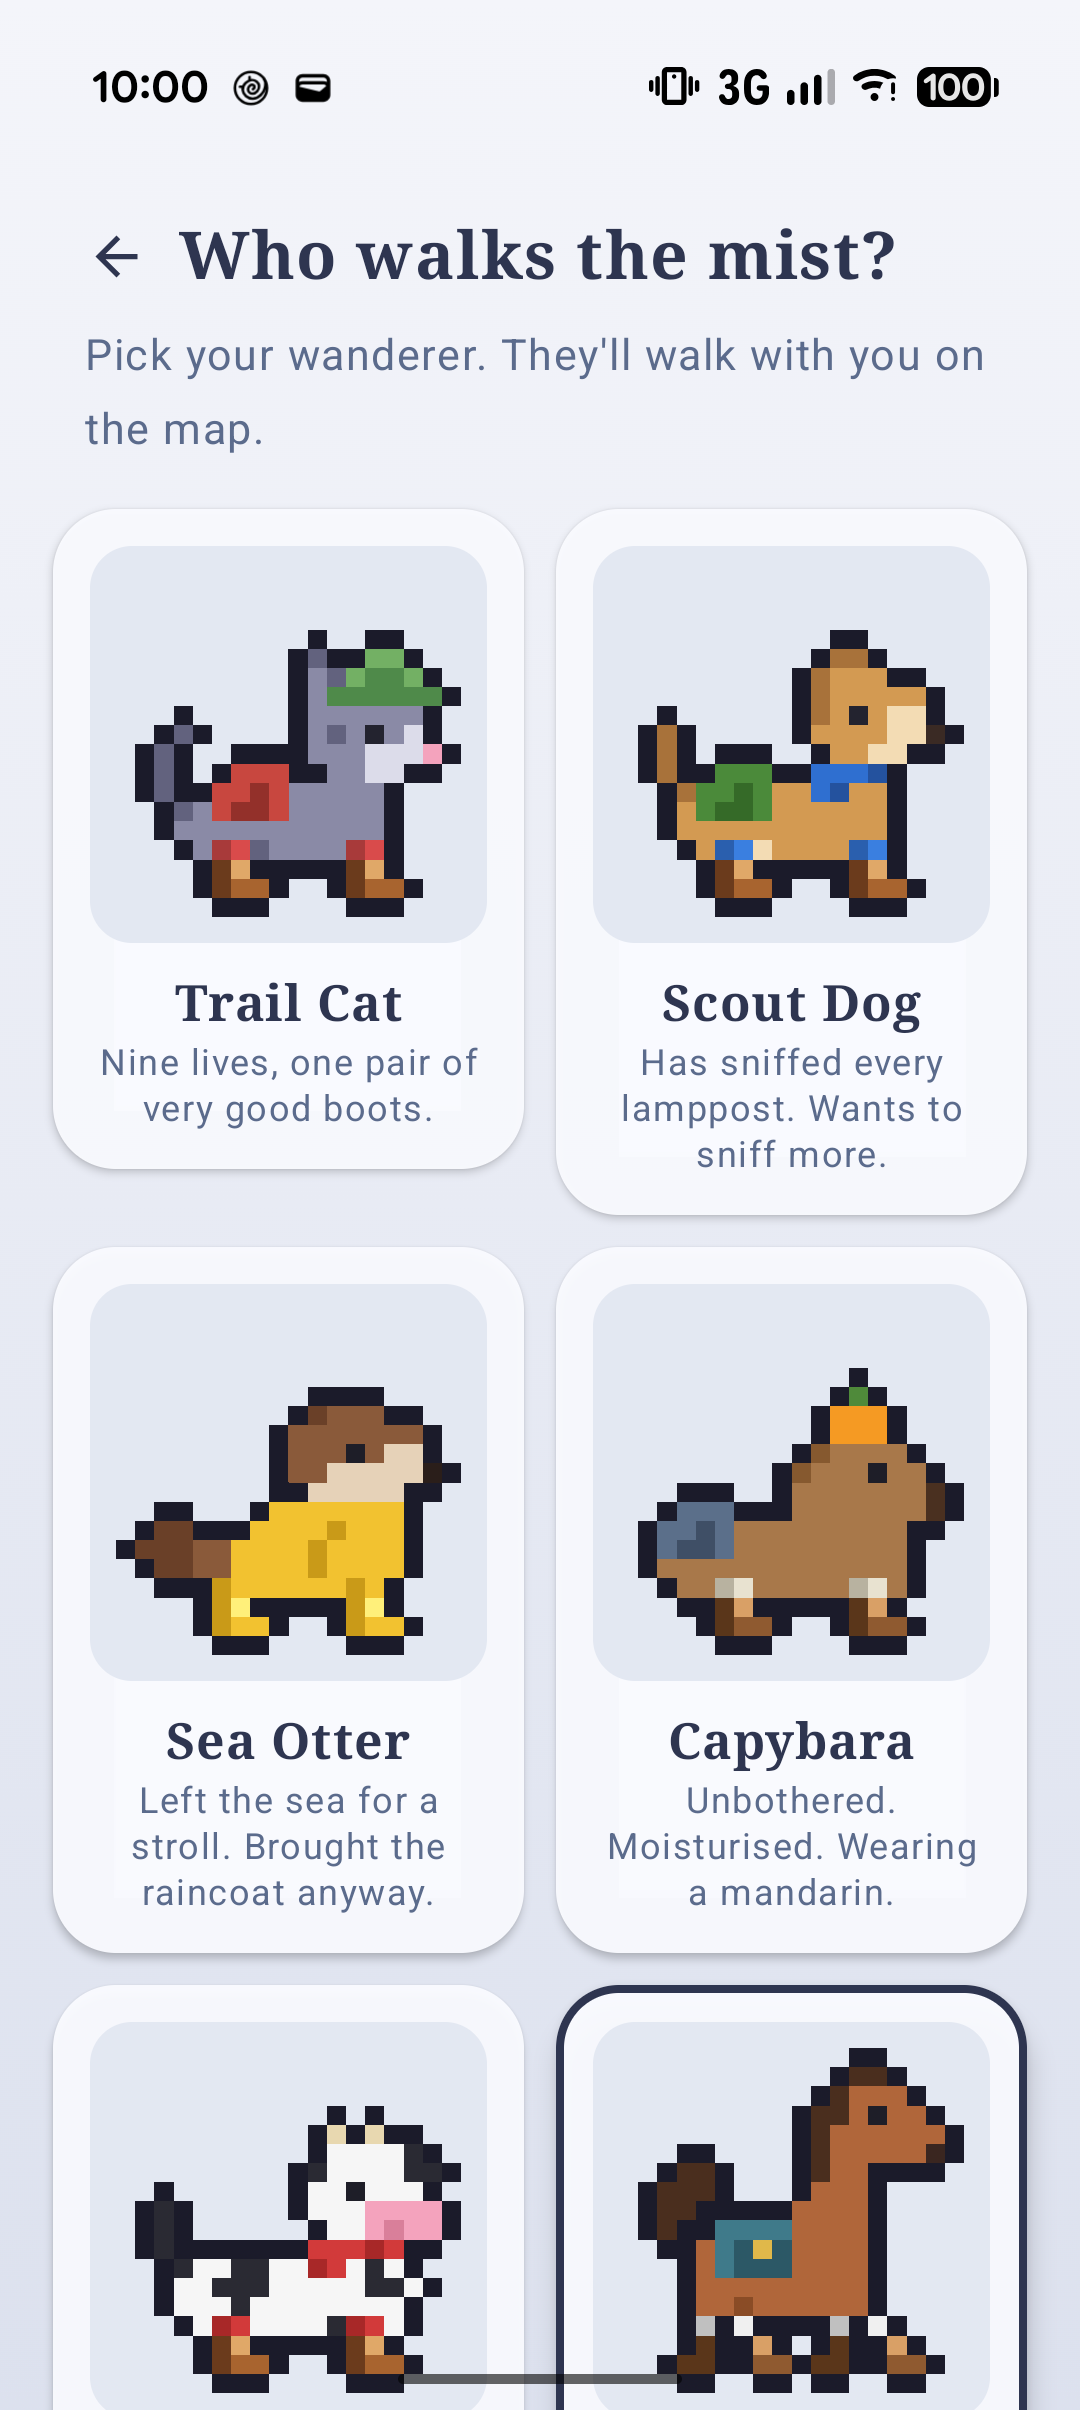
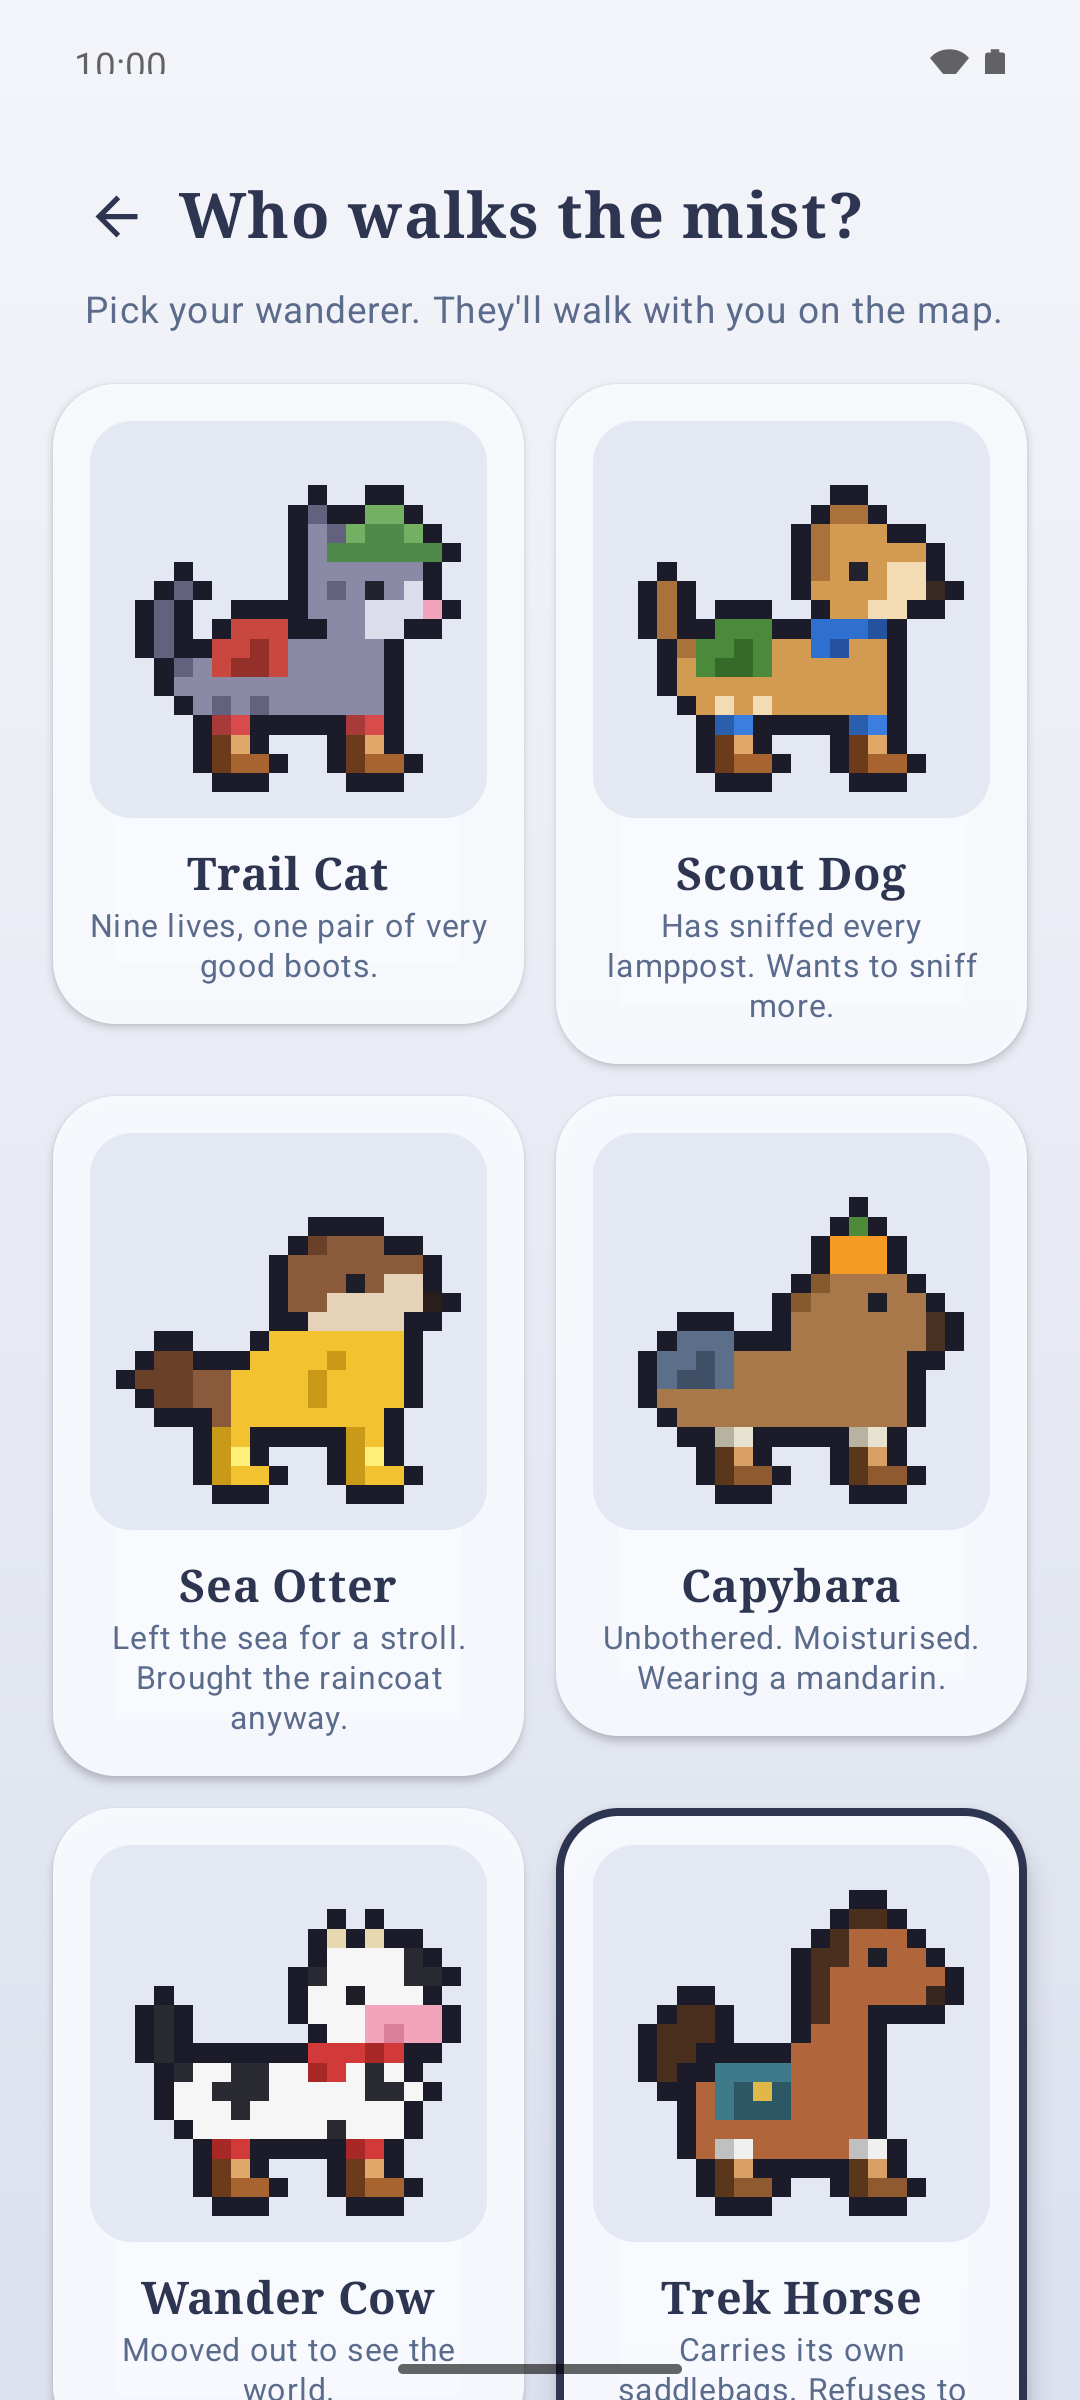
New store screenshots with made-up walks in Amsterdam
The old ones showed real trails around home. tools/screenshots/ makes demo walks along real
Amsterdam streets from the local OSM dump and explains how to take the shots on an emulator.

diff --git a/tools/screenshots/demo_walks.py b/tools/screenshots/demo_walks.py
@@ -1,0 +1,225 @@
+"""Made-up walks through Amsterdam for store screenshots, so no real trail or home shows.
+
+Routes follow real streets: they are found in a local OpenStreetMap dump (no online service).
+Writes a Misty Steps database (trails.db, schema version 5) and the app's preferences
+(misty.xml) to load into the debug app on an emulator; see tools/screenshots/README.md.
+
+    uv run --no-project --python 3.13 --with-requirements tools/maps/requirements.txt \
+        python tools/screenshots/demo_walks.py tools/maps/data/netherlands-latest.osm.pbf OUTDIR
+"""
+import heapq
+import math
+import os
+import random
+import sqlite3
+import sys
+from datetime import datetime
+from zoneinfo import ZoneInfo
+
+import osmium
+
+BBOX = (52.358, 4.865, 52.392, 4.905)  # south, west, north, east: Jordaan, canal belt, Westerpark
+WALKABLE = {"residential", "living_street", "pedestrian", "unclassified", "tertiary", "secondary",
+            "primary", "footway", "path", "cycleway", "service", "steps", "track"}
+STEP_M = 8.0  # one GPS spot every ~8 m, like a walk at ~1.3 m/s with a fix every ~6 s
+SPEED = 1.35  # m/s
+AMS = ZoneInfo("Europe/Amsterdam")
+
+# Each walk: start time and waypoints (lat, lon); the route between them follows streets.
+WALKS = [
+    (datetime(2026, 10, 25, 11, 30, tzinfo=AMS), [
+        (52.3862, 4.8775),  # Westerpark
+        (52.3872, 4.8738),
+        (52.3881, 4.8702),
+        (52.3866, 4.8688),
+        (52.3851, 4.8728),
+        (52.3862, 4.8775),
+    ]),
+    (datetime(2026, 10, 29, 19, 5, tzinfo=AMS), [
+        (52.3800, 4.8868),  # Brouwersgracht
+        (52.3812, 4.8812),
+        (52.3796, 4.8790),  # Marnixstraat
+        (52.3760, 4.8792),
+        (52.3755, 4.8830),  # Egelantiersgracht
+        (52.3780, 4.8855),
+    ]),
+    (datetime(2026, 11, 1, 10, 12, tzinfo=AMS), [
+        (52.3747, 4.8838),  # Westerkerk
+        (52.3736, 4.8800),  # Bloemgracht
+        (52.3712, 4.8790),  # Rozengracht
+        (52.3690, 4.8812),  # Elandsgracht
+        (52.3668, 4.8828),  # Lijnbaansgracht
+        (52.3700, 4.8850),  # Prinsengracht
+        (52.3747, 4.8838),
+    ]),
+    (datetime(2026, 11, 5, 16, 40, tzinfo=AMS), [
+        (52.3760, 4.8866),  # Keizersgracht
+        (52.3722, 4.8869),
+        (52.3695, 4.8880),
+        (52.3678, 4.8905),  # Herengracht
+        (52.3712, 4.8902),
+        (52.3745, 4.8895),
+        (52.3731, 4.8926),  # Dam
+    ]),
+    (datetime(2026, 11, 8, 14, 1, tzinfo=AMS), [
+        (52.3862, 4.8775),  # Westerpark
+        (52.3843, 4.8815),
+        (52.3822, 4.8846),  # Haarlemmerplein
+        (52.3809, 4.8890),  # Haarlemmerdijk
+        (52.3800, 4.8868),  # Brouwersgracht
+        (52.3785, 4.8838),  # Lindengracht
+        (52.3772, 4.8808),  # Westerstraat
+        (52.3786, 4.8862),  # Noordermarkt
+    ]),
+]
+
+# Pins: (walk index, fraction along the walk, label key, note)
+PINS = [
+    (0, 0.40, "birdsong", None),
+    (1, 0.60, "path", None),
+    (2, 0.30, "cat", None),
+    (2, 0.75, "building", "Westerkerk tower"),
+    (3, 0.45, "view", None),
+    (4, 0.12, "tree", None),
+    (4, 0.55, "ducks", None),
+    (4, 0.97, "sit", "Bench by the market"),
+]
+
+
+def dist(a, b):
+    lat = math.radians((a[0] + b[0]) / 2)
+    return math.hypot((b[0] - a[0]) * 110_540, (b[1] - a[1]) * 111_320 * math.cos(lat))
+
+
+def load_graph(pbf):
+    s, w, n, e = BBOX
+    nodes, adj = {}, {}
+    for way in osmium.FileProcessor(pbf, osmium.osm.NODE | osmium.osm.WAY).with_locations():
+        if not way.is_way():
+            continue
+        if way.tags.get("highway") not in WALKABLE or way.tags.get("foot") == "no" or way.tags.get("access") == "private":
+            continue
+        pts = [(nd.ref, nd.lat, nd.lon) for nd in way.nodes if nd.location.valid()]
+        pts = [p for p in pts if s <= p[1] <= n and w <= p[2] <= e]
+        for (i1, la1, lo1), (i2, la2, lo2) in zip(pts, pts[1:]):
+            nodes[i1] = (la1, lo1); nodes[i2] = (la2, lo2)
+            d = dist((la1, lo1), (la2, lo2))
+            adj.setdefault(i1, []).append((i2, d)); adj.setdefault(i2, []).append((i1, d))
+    return nodes, adj
+
+
+def route(nodes, adj, a, b):
+    start = min(nodes, key=lambda i: dist(nodes[i], a))
+    goal = min(nodes, key=lambda i: dist(nodes[i], b))
+    best, prev, todo = {start: 0.0}, {}, [(0.0, start)]
+    while todo:
+        d, u = heapq.heappop(todo)
+        if u == goal:
+            break
+        if d > best[u]:
+            continue
+        for v, c in adj.get(u, []):
+            if d + c < best.get(v, math.inf):
+                best[v] = d + c; prev[v] = u; heapq.heappush(todo, (d + c, v))
+    path = [goal]
+    while path[-1] != start:
+        path.append(prev[path[-1]])
+    return [nodes[i] for i in reversed(path)]
+
+
+def densify(line, rnd):
+    out = [line[0]]
+    carry = 0.0
+    for a, b in zip(line, line[1:]):
+        seg = dist(a, b)
+        t = STEP_M - carry
+        while t <= seg:
+            f = t / seg
+            out.append((a[0] + (b[0] - a[0]) * f, a[1] + (b[1] - a[1]) * f))
+            t += STEP_M
+        carry = seg - (t - STEP_M)
+    # A little GPS wobble (about 1.5 m).
+    return [(la + rnd.gauss(0, 1.5) / 110_540, lo + rnd.gauss(0, 1.5) / 68_000) for la, lo in out]
+
+
+def cells(points, lat0):
+    """~10 m cells within the clearing radius of each point (first one 100 m, then 50 m)."""
+    kx = 111_320 * math.cos(math.radians(lat0))
+    out = set()
+    for i, (la, lo, r) in enumerate(points):
+        cx, cy = lo * kx / 10, la * 110_540 / 10
+        k = int(r / 10) + 1
+        for dx in range(-k, k + 1):
+            for dy in range(-k, k + 1):
+                if dx * dx + dy * dy <= (r / 10) ** 2:
+                    out.add((int(cx) + dx, int(cy) + dy))
+    return out
+
+
+def main():
+    pbf, outdir = sys.argv[1], sys.argv[2]
+    os.makedirs(outdir, exist_ok=True)
+    rnd = random.Random(7)
+    nodes, adj = load_graph(pbf)
+    db_path = os.path.join(outdir, "trails.db")
+    if os.path.exists(db_path):
+        os.remove(db_path)
+    db = sqlite3.connect(db_path)
+    db.executescript("""
+        CREATE TABLE points (id INTEGER PRIMARY KEY AUTOINCREMENT, lat REAL NOT NULL, lon REAL NOT NULL,
+            time INTEGER NOT NULL, radius REAL NOT NULL DEFAULT 50.0, session_id INTEGER);
+        CREATE TABLE sessions (id INTEGER PRIMARY KEY, start_time INTEGER NOT NULL, end_time INTEGER,
+            distance_m REAL NOT NULL DEFAULT 0, points INTEGER NOT NULL DEFAULT 0, battery_start INTEGER,
+            battery_end INTEGER, new_area_m2 REAL);
+        CREATE INDEX points_session ON points(session_id);
+        CREATE TABLE pins (id INTEGER PRIMARY KEY AUTOINCREMENT, lat REAL NOT NULL, lon REAL NOT NULL,
+            time INTEGER NOT NULL, label TEXT NOT NULL, note TEXT, session_id INTEGER);
+        CREATE INDEX pins_session ON pins(session_id);
+        PRAGMA user_version = 5;
+    """)
+    seen = set()
+    total = 0.0
+    walks = []
+    for sid, (start, waypoints) in enumerate(WALKS, start=1):
+        line = []
+        for a, b in zip(waypoints, waypoints[1:]):
+            leg = route(nodes, adj, a, b)
+            line += leg if not line else leg[1:]
+        pts = densify(line, rnd)
+        t0 = int(start.timestamp() * 1000)
+        d = sum(dist(a, b) for a, b in zip(pts, pts[1:]))
+        times = [t0]
+        for a, b in zip(pts, pts[1:]):
+            times.append(times[-1] + int(dist(a, b) / SPEED * 1000))
+        rows = [(la, lo, t, 100.0 if i == 0 else 50.0) for i, ((la, lo), t) in enumerate(zip(pts, times))]
+        c = cells([(la, lo, r) for la, lo, _, r in rows], pts[0][0])
+        new = len(c - seen) * 100.0
+        seen |= c
+        total += d
+        db.execute("INSERT INTO sessions VALUES (?,?,?,?,?,NULL,NULL,?)", (sid, t0, times[-1], d, len(rows), new))
+        db.executemany("INSERT INTO points (lat, lon, time, radius, session_id) VALUES (?,?,?,?,?)",
+                       [(la, lo, t, r, sid) for la, lo, t, r in rows])
+        walks.append(rows)
+        print(f"walk {sid}: {d / 1000:.1f} km, {len(rows)} spots, {new / 10_000:.1f} ha new", file=sys.stderr)
+    for wi, frac, label, note in PINS:
+        la, lo, t, _ = walks[wi][int(frac * (len(walks[wi]) - 1))]
+        db.execute("INSERT INTO pins (lat, lon, time, label, note, session_id) VALUES (?,?,?,?,?,?)",
+                   (la, lo, t, label, note, wi + 1))
+    db.commit()
+    db.close()
+    last = walks[-1][-1]
+    with open(os.path.join(outdir, "misty.xml"), "w") as f:
+        f.write(f"""<?xml version='1.0' encoding='utf-8' standalone='yes' ?>
+<map>
+    <float name="distance_m" value="{total:.1f}" />
+    <string name="character">horse</string>
+    <boolean name="pin_tip_seen" value="true" />
+</map>
+""")
+    with open(os.path.join(outdir, "here.txt"), "w") as f:
+        f.write(f"{last[1]} {last[0]}\n")  # lon lat, for `adb emu geo fix`
+    print(f"total {total / 1000:.1f} km; you stand at {last[0]:.5f}, {last[1]:.5f}", file=sys.stderr)
+
+
+if __name__ == "__main__":
+    main()

diff --git a/tools/screenshots/README.md b/tools/screenshots/README.md
@@ -1,0 +1,44 @@
+# Store screenshots
+
+The screenshots in `fastlane/metadata/android/en-US/images/phoneScreenshots/` are taken on an
+emulator with made-up walks through Amsterdam, so no real trail, home or neighbourhood shows.
+Never take them on your own phone with your own trails.
+
+1. Make the demo data (needs the Geofabrik dump in `tools/maps/data/`, see `tools/maps/index.py`):
+
+   ```sh
+   uv run --no-project --python 3.13 --with-requirements tools/maps/requirements.txt \
+       python -I tools/screenshots/demo_walks.py tools/maps/data/netherlands-latest.osm.pbf /tmp/misty-demo
+   ```
+
+   Five walks through Westerpark, the Jordaan and the canal belt along real streets, eight pins,
+   the Trek Horse as character. Writes `trails.db`, `misty.xml` and `here.txt` (where you stand).
+
+2. Start the emulator (AVD `misty_shots`: Pixel 8, Android 36, Google APIs, arm64) and install a
+   debug build: `emulator -avd misty_shots -no-snapshot` and `adb -s emulator-5554 install -r app-debug.apk`.
+
+3. Load the data and set the scene:
+
+   ```sh
+   e(){ adb -s emulator-5554 "$@"; }; P=com.potloodgum.mistysteps.debug; D=/tmp/misty-demo
+   e shell am force-stop $P
+   e push $D/trails.db $D/misty.xml /data/local/tmp/ && e shell chmod 644 /data/local/tmp/trails.db /data/local/tmp/misty.xml
+   e shell "run-as $P sh -c 'mkdir -p databases shared_prefs; rm -f databases/trails.db-* shared_prefs/camera.xml; cp /data/local/tmp/trails.db databases/; cp /data/local/tmp/misty.xml shared_prefs/'"
+   e shell pm grant $P android.permission.ACCESS_FINE_LOCATION
+   read LON LAT < $D/here.txt; e emu geo fix $LON $LAT
+   # Status bar: 10:00, full battery, wifi only, no notifications.
+   e shell settings put global sysui_demo_allowed 1
+   e shell am broadcast -a com.android.systemui.demo -e command enter
+   e shell am broadcast -a com.android.systemui.demo -e command clock -e hhmm 1000
+   e shell am broadcast -a com.android.systemui.demo -e command battery -e level 100 -e plugged false
+   e shell am broadcast -a com.android.systemui.demo -e command network -e mobile hide
+   e shell am broadcast -a com.android.systemui.demo -e command network -e wifi show -e level 4 -e fully true
+   e shell am broadcast -a com.android.systemui.demo -e command notifications -e visible false
+   ```
+
+4. Take the five shots with `adb -s emulator-5554 exec-out screencap -p > N_name.png`: the map
+   (zoomed in one step on the character), the stats page, the postcard of the 8 November walk
+   (tap it in "Your walks"), the character screen and About. For About, build with the release's
+   version name and no `-dev` suffix, and revert that change afterwards.
+
+Map tiles in the shots come from tile.openstreetmap.org while you look at them, like normal app use.
